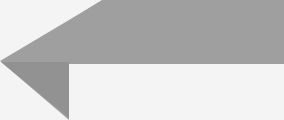
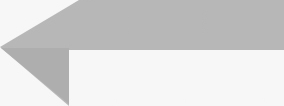
细节修改

Changed region(s): [[0.0, 0.0, 1.0, 0.9906], [0.7042, 0.2547, 0.7324, 0.3679], [0.7042, 0.1698, 0.7324, 0.2264]]

diff --git a/src/main/webapp/resources/css/app.css b/src/main/webapp/resources/css/app.css
@@ -228,7 +228,7 @@ img.arrowdown {
 
 .bg-left h4 {
     margin-left: 140px;
-    margin-top: 25px;
+    margin-top: 15px;
     font-size: 16px;
     font-weight: normal;
 }
@@ -237,8 +237,9 @@ img.arrowdown {
     width: 790px;
     float: right;
     margin-right: 68px;
-
-    border-left: 1px solid #9F9F9F;
+    padding-left: 5px;
+    padding-right: 5px;
+    border-left: 1px solid #B7B7B7;
 }
 
 .bg-right .image {
@@ -273,7 +274,7 @@ img.arrowdown {
 }
 
 .bg-sidebar {
-    border-left: 1px solid #9F9F9F;
+    border-left: 1px solid #B7B7B7;
     margin-left: 68px;
     width: 149px;
     padding-top: 20px;
